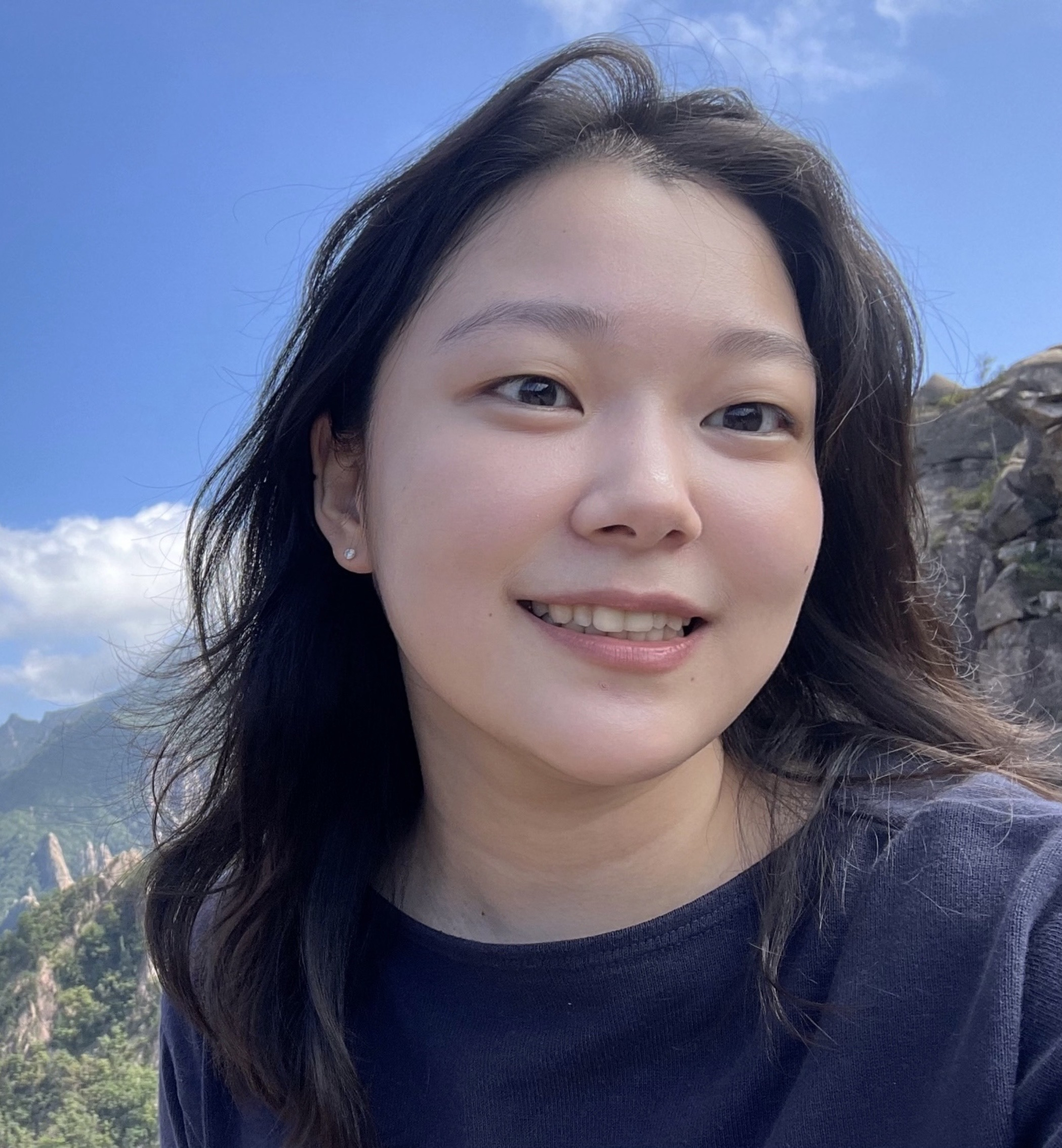
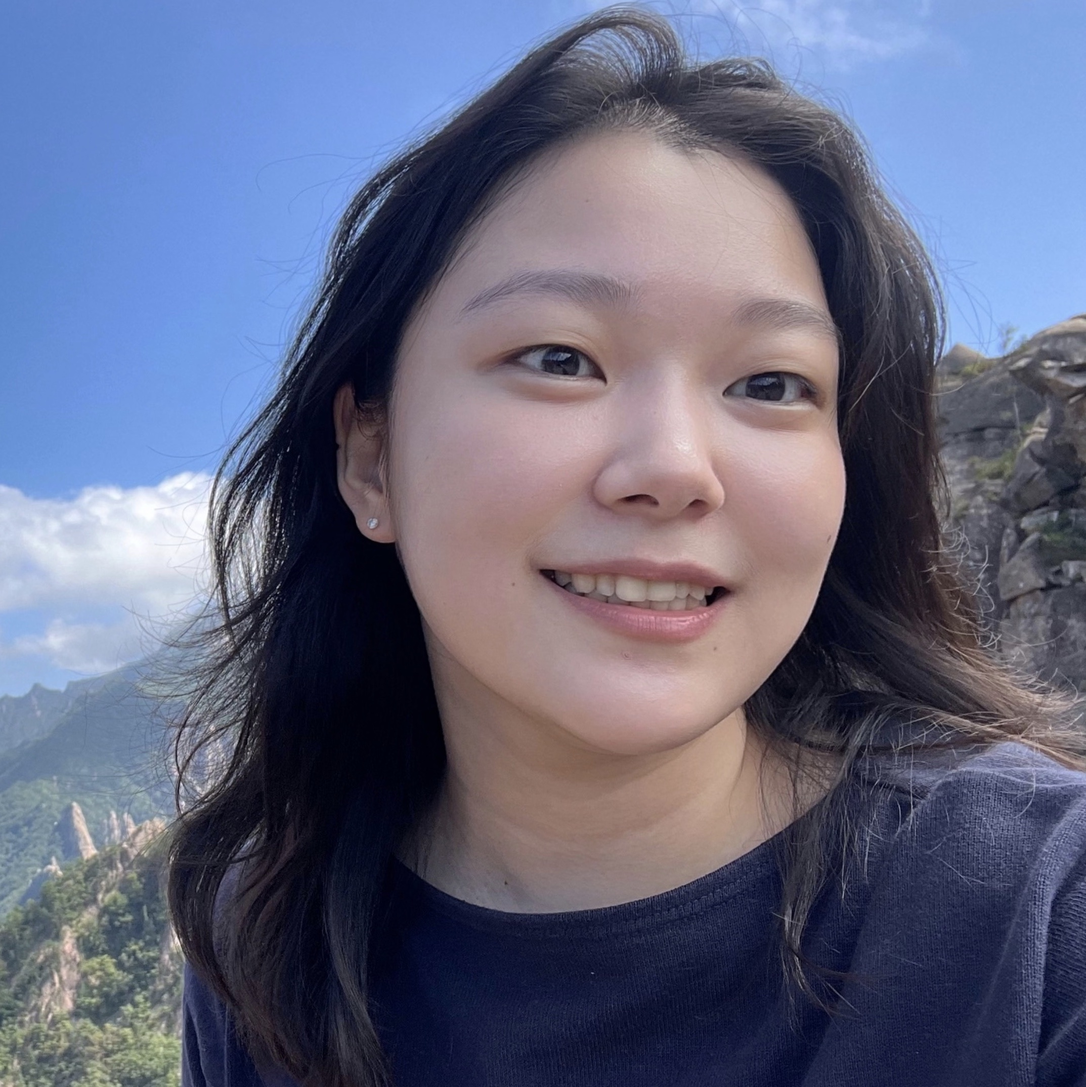
Add introduction

diff --git a/src/App.css b/src/App.css
@@ -1,28 +1,29 @@
 .App {
-  text-align: left;
+  display: flex;
+  flex-direction: column;
+  /* justify-content: center; */
+  align-items: center;
   background-color: white; /* 전체 배경 색상 흰색 */
-  padding-left: 130px;
+  min-height: 100vh; /* 화면 전체 높이 사용 */
+  padding: 0 20px;
 }
 
 .App-header {
   display: flex;
   flex-direction: column; /* 플렉스 방향을 열로 설정 */
   align-items: flex-start; /* 왼쪽 정렬 */
-  font-size: calc(10px + 2vmin);
-  color: black; /* 텍스트 색상 검정 */
-  position: relative;
-  padding-top: 20px; /* 상단 여백 추가 */
+  width: 100%;
+  max-width: 1200px; /* 최대 너비 설정 */
+  margin-bottom: 20px; /* 아래 여백 추가 */
+  padding-top: 30px;
 }
 
 .site-title {
-  font-size: 2.5rem;
+  font-size: 2rem;
   color: black; /* 텍스트 색상 검정 */
   text-decoration: none;
   font-family: 'Helvetica', sans-serif; /* 폰트 설정 */
   font-weight: bold; /* 볼드체 설정 */
-  position: absolute;
-  margin-top: 50px; /* 원하는 만큼 위쪽 여백 추가 */
-  margin-left: 100px; /* 원하는 만큼 왼쪽 여백 추가 */
 }
 
 .site-title:hover {
@@ -32,22 +33,99 @@
 
 main {
   display: flex;
-  flex-direction: column;
+  justify-content: center;
   align-items: flex-start;
-  padding-left: 100px; /* 텍스트와 사진을 왼쪽 정렬 */
+  width: 100%;
+  max-width: 1200px;
+  text-align: left; /* 텍스트 왼쪽 정렬 */
+}
+
+
+.profile-container {
+  display: flex;
+  align-items: flex-start;
+  margin-top: 20px;
+  width: 100%;
 }
 
 .profile-pic {
-  margin-top: 140px; /* 제목 아래에 공간 추가 */
-  margin-left: 10px;
-  width: 300px; /* 원하는 크기로 조정 */
-  height: 300px; /* 원하는 크기로 조정 */
-  border-radius: 100%; /* 원형으로 만들기 */
-  border: 7px solid #458EF7;
+  width: 250px; /* 원하는 크기로 조정 */
+  height: 250px; /* 원하는 크기로 조정 */
+  border-radius: 80%; /* 원형으로 만들기 */
+  border: 7px solid #458EF7; /* 파란색 테두리 추가 */
+  margin-right: 70px; /* 사진과 설명 사이 여백 추가 */
 }
 
-h1 {
+
+.profile-description {
+  flex: 1;
+  max-width: 600px; /* 설명의 최대 너비 설정 */
+}
+
+.profile-description h1 {
   font-size: 1.5rem; /* 원하는 크기로 조정 */
   color: black;  /* 텍스트 색상 검정 */
-  margin-top: 30px; /* 사진 아래에 여백 추가 */
+  margin-top: 0; /* 위쪽 여백 제거 */
+}
+
+.profile-description p {
+  font-size: 1rem;
+  color: black;
+}
+
+.profile-description a {
+  color: black; /* 링크 색상 검정 */
+  text-decoration: none;
+}
+
+.profile-description a:hover {
+  text-decoration: underline;
+  text-decoration-color: #458EF7; /* 호버 시 밑줄 색상 #458EF7 */
+}
+
+.contact-info {
+  display: flex;
+  margin-top: 20px;
+}
+
+.contact-item {
+  display: flex;
+  align-items: center;
+  margin-right: 20px;
+}
+
+.contact-item:last-child {
+  margin-right: 0;
+}
+
+.contact-icon {
+  width: 20px; /* 아이콘의 크기 조정 */
+  height: 20px; /* 아이콘의 크기 조정 */
+  margin-right: 10px;
+}
+
+/* 반응형 디자인 추가 */
+@media (max-width: 768px) {
+  .App-header, main {
+    align-items: center; /* 중앙 정렬 */
+    text-align: center; /* 텍스트 중앙 정렬 */
+  }
+
+  .profile-container {
+    flex-direction: column; /* 열 방향으로 변경 */
+    align-items: center; /* 중앙 정렬 */
+  }
+
+  .profile-pic {
+    margin-right: 0; /* 오른쪽 여백 제거 */
+    margin-bottom: 20px; /* 아래 여백 추가 */
+  }
+
+  .profile-description {
+    max-width: 100%; /* 최대 너비 100% */
+  }
+
+  .contact-info {
+    justify-content: center; /* 중앙 정렬 */
+  }
 }

diff --git a/src/App.js b/src/App.js
@@ -1,18 +1,40 @@
 import React from 'react';
 import './App.css';
+import { FontAwesomeIcon } from '@fortawesome/react-fontawesome';
+import { faEnvelope } from '@fortawesome/free-solid-svg-icons';
+import { faGithub } from '@fortawesome/free-brands-svg-icons';
 
 function App() {
   return (
     <div className="App">
       <header className="App-header">
         <nav>
-          <a href="/" className="site-title">I'm Hyuna Seo!</a>
+          <a href="/" className="site-title">Hyuna Seo</a>
         </nav>
       </header>
       <main>
-        <img src={`${process.env.PUBLIC_URL}/profile.jpg`} className="profile-pic" alt="Hyuna Seo" />
-        <h1>Hello I'm Hyuna Seo!</h1>
-        {/* 여기에 추가적인 콘텐츠를 작성합니다. */}
+        <div className="profile-container">
+          <img src={`${process.env.PUBLIC_URL}/profile.jpg`} className="profile-pic" alt="Hyuna Seo" />
+          <div className="profile-description">
+            <h1>Hi, I'm Hyuna Seo!</h1>
+            <p>
+              I’m a PhD student at the <a href="https://hcs.snu.ac.kr/" target="_blank" rel="noopener noreferrer">Human-Centered Computing Systems Lab</a>, Department of Computer Science and Engineering, Seoul National University, since 2021.02 under the guidance of <a href="https://youngkilee.blogspot.com/" target="_blank" rel="noopener noreferrer">Youngki Lee</a>.
+            </p>
+            <p>
+              My research is focused on designing Cross Reality systems that allow users to remain deeply immersed in virtual environments while seamlessly interacting with the real world according to their needs. I have been exploring a context-aware approach, gradually integrating the real world into the virtual environment based on the user's interaction state.
+            </p>
+            <div className="contact-info">
+              <div className="contact-item">
+                <FontAwesomeIcon icon={faEnvelope} className="contact-icon" />
+                <a href="mailto:hyuna.seo@hcs.snu.ac.kr">hyuna.seo@hcs.snu.ac.kr</a>
+              </div>
+              <div className="contact-item">
+                <FontAwesomeIcon icon={faGithub} className="contact-icon" />
+                <a href="https://github.com/hyunas1996" target="_blank" rel="noopener noreferrer">https://github.com/hyunas1996</a>
+              </div>
+            </div>
+          </div>
+        </div>
       </main>
     </div>
   );
